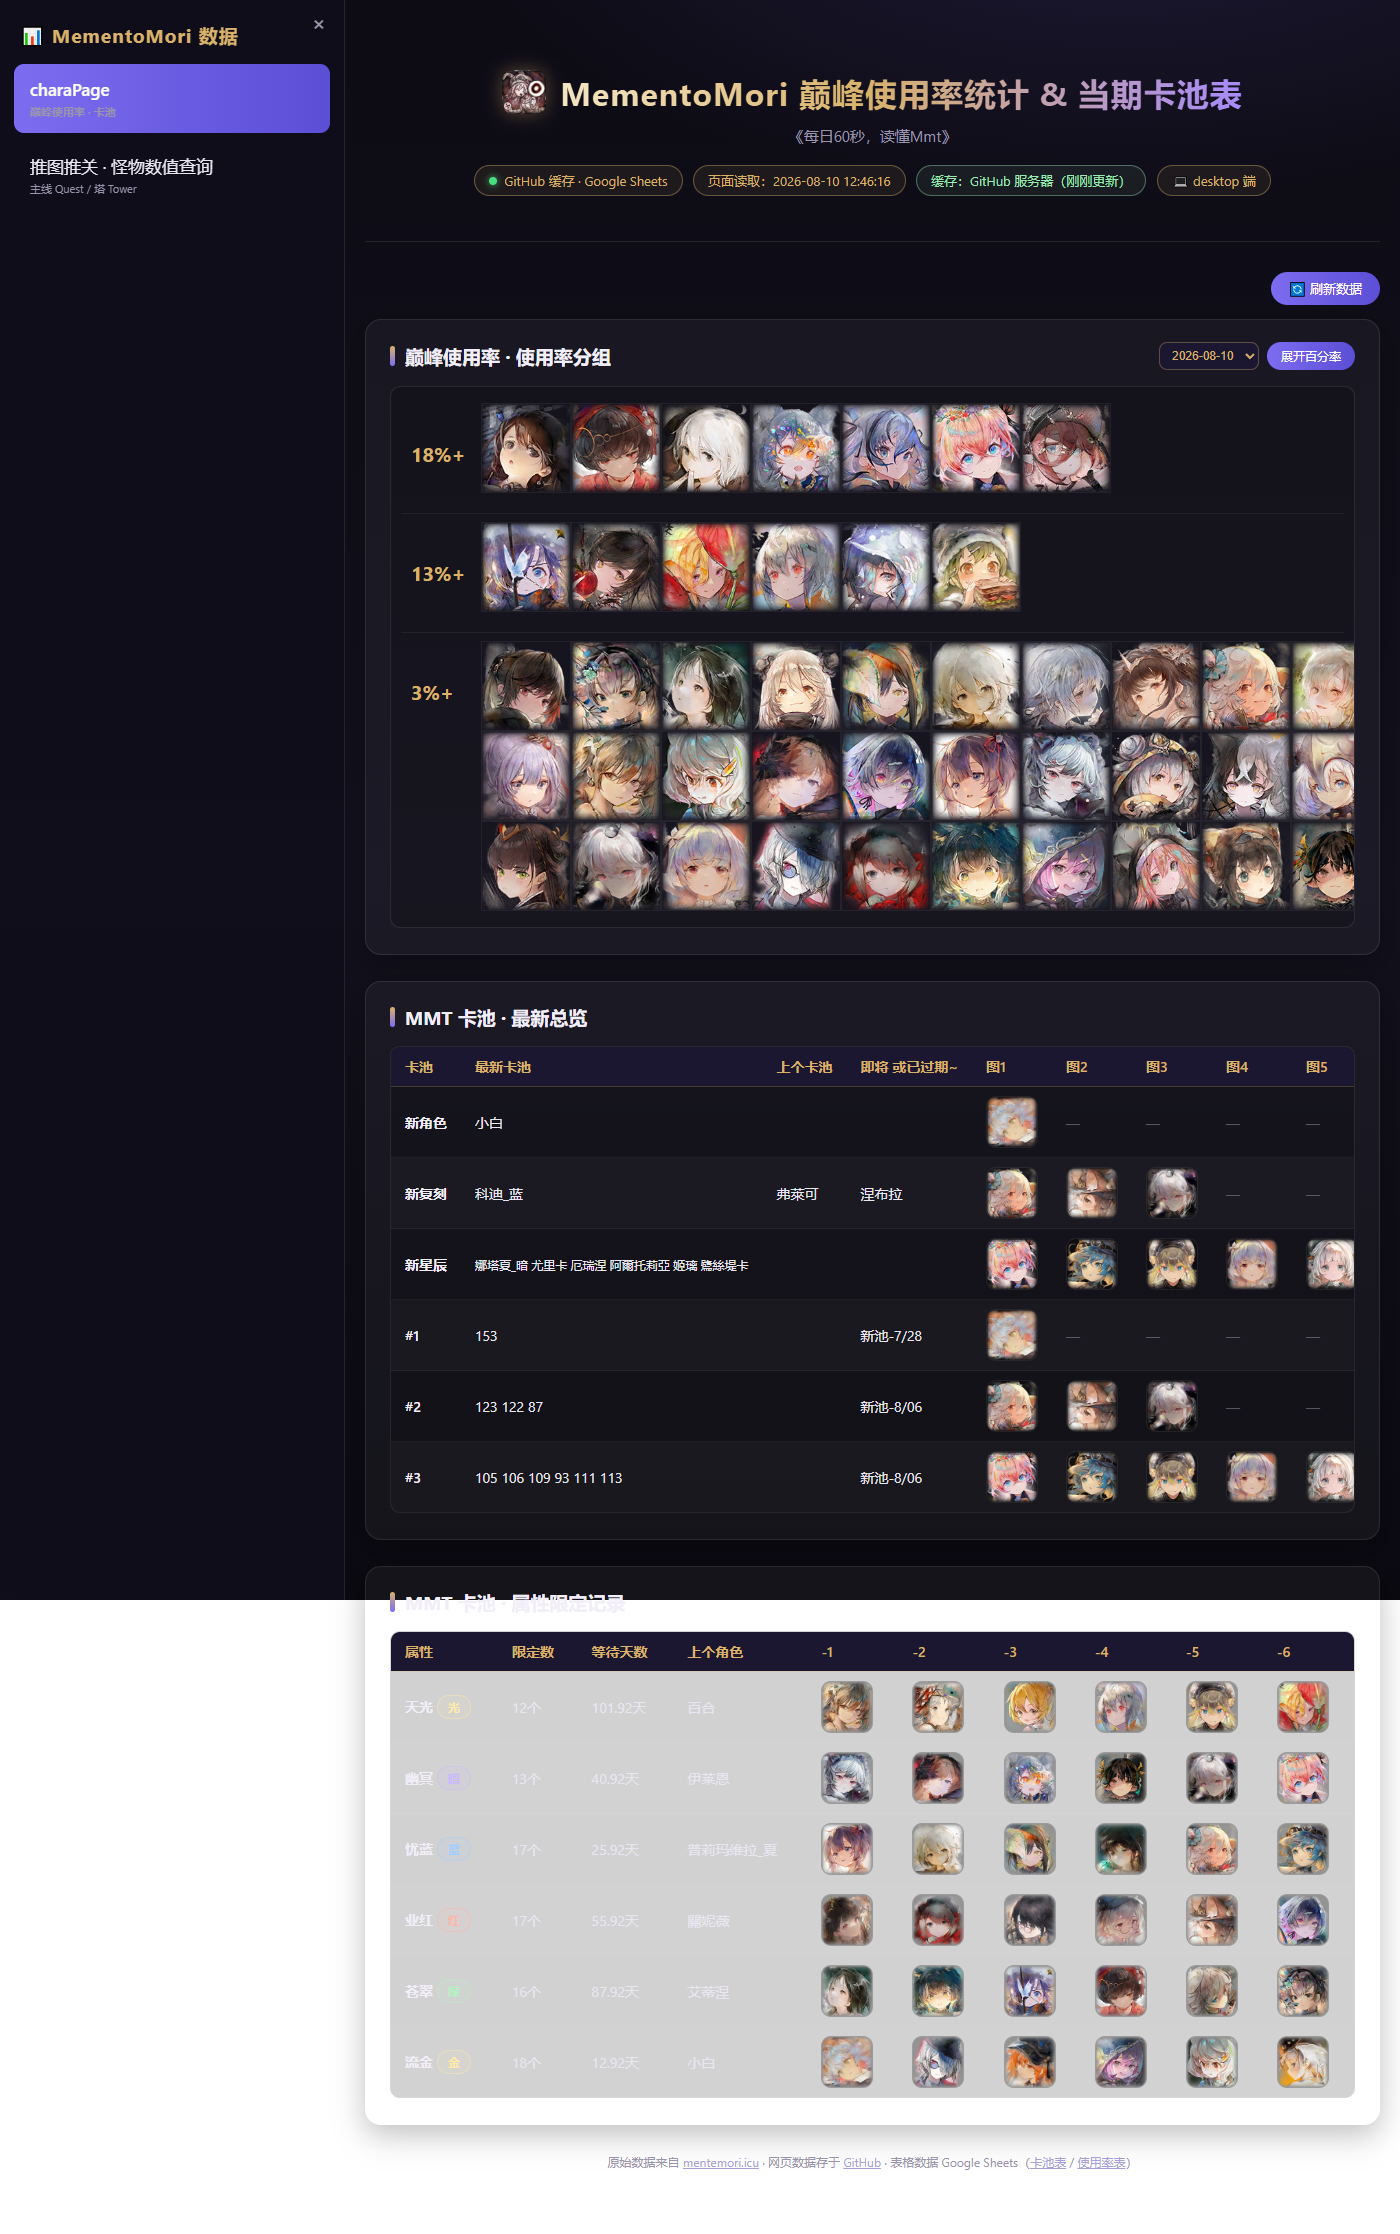
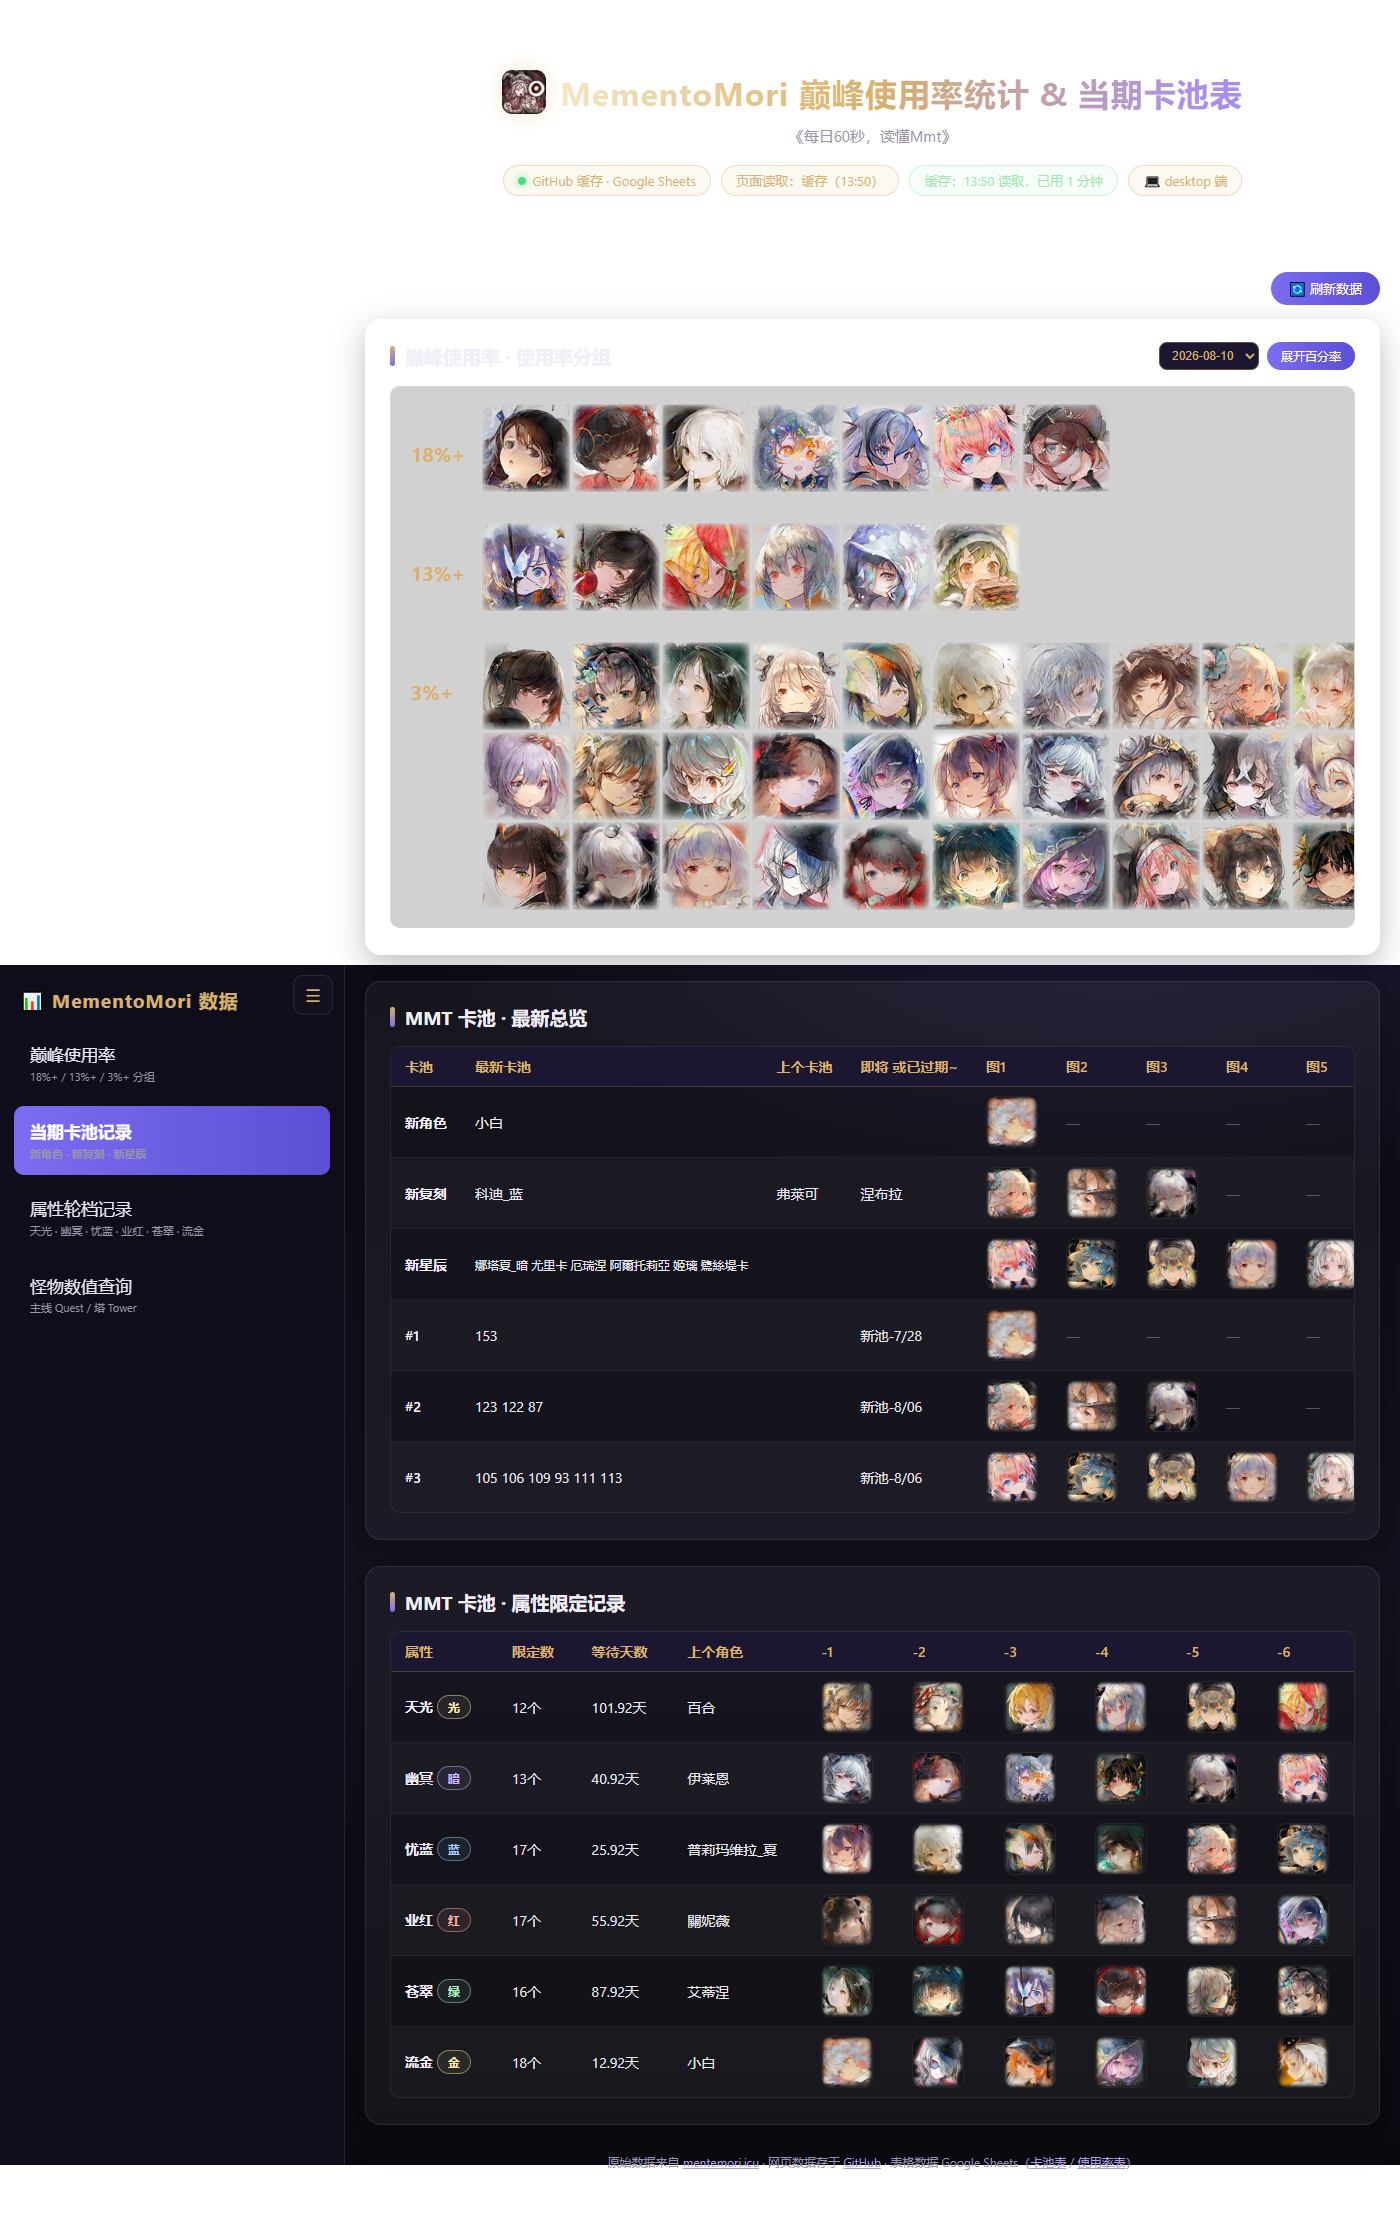
侧栏改为三横杠按钮(收起靠边/展开移到右上角)；菜单改4项：巅峰使用率/当期卡池记录/属性轮档记录(同页锚点跳转)+怪物数值查询

diff --git a/index.html b/index.html
@@ -238,25 +238,27 @@ footer a{color:#a99fd9}
 .side .side-link:hover{background:rgba(124,108,240,.18)}
 .side .side-link.active{background:linear-gradient(90deg,#7c6cf0,#5b4fd6);color:#fff;font-weight:600}
 .side .side-link .sub{display:block;font-size:11px;color:var(--muted);margin-top:2px}
-.side-open{position:fixed;left:10px;top:10px;z-index:90;width:40px;height:40px;border-radius:10px;border:1px solid var(--panel-border);background:rgba(20,17,32,.9);color:var(--gold);font-size:18px;cursor:pointer;display:none}
-.side-close{position:absolute;right:10px;top:10px;width:30px;height:30px;border:none;background:none;color:var(--muted);font-size:22px;cursor:pointer;line-height:1}
+.side-open{position:fixed;left:10px;top:10px;z-index:90;width:40px;height:40px;border-radius:10px;border:1px solid var(--panel-border);background:rgba(20,17,32,.9);color:var(--gold);font-size:18px;cursor:pointer;display:block}
+body:not(.side-collapsed) .side-open{left:calc(345px - 52px)}
 .side-mask{position:fixed;inset:0;background:rgba(0,0,0,.45);z-index:70;display:none}
 .side-mask.show{display:block}
-body.side-collapsed .side-open{display:block}
 @media (min-width:769px){body:not(.side-collapsed){padding-left:345px}}
 @media (max-width:768px){header.top{padding-top:52px}}
 
+html{scroll-behavior:smooth}
+section[id]{scroll-margin-top:16px}
 </style>
 </head>
 <body>
 <div class="side-mask" id="side-mask" onclick="toggleSide(false)"></div>
 <nav class="side" id="side">
-  <button class="side-close" onclick="toggleSide(false)">×</button>
   <div class="side-title">📊 MementoMori 数据</div>
-  <a class="side-link active" href="index.html">charaPage<span class="sub">巅峰使用率 · 卡池</span></a>
-  <a class="side-link" href="monsters.html">推图推关 · 怪物数值查询<span class="sub">主线 Quest / 塔 Tower</span></a>
+  <a class="side-link" href="index.html#sec-usage">巅峰使用率<span class="sub">18%+ / 13%+ / 3%+ 分组</span></a>
+  <a class="side-link" href="index.html#sec-overview">当期卡池记录<span class="sub">新角色 · 新复刻 · 新星辰</span></a>
+  <a class="side-link" href="index.html#sec-elements">属性轮档记录<span class="sub">天光 · 幽冥 · 忧蓝 · 业红 · 苍翠 · 流金</span></a>
+  <a class="side-link" href="monsters.html">怪物数值查询<span class="sub">主线 Quest / 塔 Tower</span></a>
 </nav>
-<button class="side-open" id="side-open" onclick="toggleSide(true)">☰</button>
+<button class="side-open" id="side-open" onclick="toggleSide()">☰</button>
 
 <div class="wrap">
   <header class="top">
@@ -274,7 +276,7 @@ body.side-collapsed .side-open{display:block}
     <button id="btn-refresh" onclick="load(true)">🔄 刷新数据</button>
   </div>
 
-  <section class="card">
+  <section class="card" id="sec-usage">
     <h2>巅峰使用率 · 使用率分组<span class="h2-note">
       <select id="usage-day" onchange="onDayChange()"></select>
       <button type="button" id="btn-pct" class="mini" onclick="togglePct()">展开百分率</button>
@@ -282,12 +284,12 @@ body.side-collapsed .side-open{display:block}
     <div class="table-wrap usage-wrap" id="tbl-usage"></div>
   </section>
 
-  <section class="card">
+  <section class="card" id="sec-overview">
     <h2>MMT 卡池 · 最新总览</h2>
     <div class="table-wrap" id="tbl-overview"></div>
   </section>
 
-  <section class="card">
+  <section class="card" id="sec-elements">
     <h2>MMT 卡池 · 属性限定记录</h2>
     <div class="table-wrap" id="tbl-elements"></div>
   </section>
@@ -619,6 +621,19 @@ function toggleSide(force){
   }
   document.body.classList.toggle("side-collapsed", !open);
 }
+function initScrollSpy(){
+  const targets = ["sec-usage", "sec-overview", "sec-elements"];
+  const links = document.querySelectorAll(".side .side-link");
+  const spy = new IntersectionObserver(entries => {
+    entries.forEach(en => {
+      if (en.isIntersecting){
+        const id = en.target.id;
+        links.forEach(a => a.classList.toggle("active", a.getAttribute("href").indexOf("#" + id) >= 0));
+      }
+    });
+  }, { rootMargin: "-40% 0px -55% 0px" });
+  targets.forEach(id => { const el = document.getElementById(id); if (el) spy.observe(el); });
+}
 function detectDevice(){
   const m = window.matchMedia("(max-width: 768px)");
   const el = document.getElementById("device");
@@ -803,6 +818,7 @@ async function load(force){
 document.getElementById("fetch-time").textContent = "页面读取：" + fmtNow();
 detectDevice();
 toggleSide(window.matchMedia("(min-width: 769px)").matches);
+initScrollSpy();
 load(false);
 scheduleRefresh();
 </script>

diff --git a/monsters.html b/monsters.html
@@ -79,11 +79,10 @@ footer a{color:#a99fd9}
 .side .side-link:hover{background:rgba(124,108,240,.18)}
 .side .side-link.active{background:linear-gradient(90deg,#7c6cf0,#5b4fd6);color:#fff;font-weight:600}
 .side .side-link .sub{display:block;font-size:11px;color:var(--muted);margin-top:2px}
-.side-open{position:fixed;left:10px;top:10px;z-index:90;width:40px;height:40px;border-radius:10px;border:1px solid var(--panel-border);background:rgba(20,17,32,.9);color:var(--gold);font-size:18px;cursor:pointer;display:none}
-.side-close{position:absolute;right:10px;top:10px;width:30px;height:30px;border:none;background:none;color:var(--muted);font-size:22px;cursor:pointer;line-height:1}
+.side-open{position:fixed;left:10px;top:10px;z-index:90;width:40px;height:40px;border-radius:10px;border:1px solid var(--panel-border);background:rgba(20,17,32,.9);color:var(--gold);font-size:18px;cursor:pointer;display:block}
+body:not(.side-collapsed) .side-open{left:calc(345px - 52px)}
 .side-mask{position:fixed;inset:0;background:rgba(0,0,0,.45);z-index:70;display:none}
 .side-mask.show{display:block}
-body.side-collapsed .side-open{display:block}
 @media (min-width:769px){
   body:not(.side-collapsed){padding-left:345px}
 }
@@ -97,17 +96,20 @@ body.side-collapsed .side-open{display:block}
   thead th,tbody td{padding:7px 8px;font-size:12px}
   .qrow input[type=text]{width:120px}
 }
+html{scroll-behavior:smooth}
+section[id]{scroll-margin-top:16px}
 </style>
 </head>
 <body>
 <div class="side-mask" id="side-mask" onclick="toggleSide(false)"></div>
 <nav class="side" id="side">
-  <button class="side-close" onclick="toggleSide(false)">×</button>
   <div class="side-title">📊 MementoMori 数据</div>
-  <a class="side-link" href="index.html">charaPage<span class="sub">巅峰使用率 · 卡池</span></a>
-  <a class="side-link active" href="monsters.html">推图推关 · 怪物数值查询<span class="sub">主线 Quest / 塔 Tower</span></a>
+  <a class="side-link" href="index.html#sec-usage">巅峰使用率<span class="sub">18%+ / 13%+ / 3%+ 分组</span></a>
+  <a class="side-link" href="index.html#sec-overview">当期卡池记录<span class="sub">新角色 · 新复刻 · 新星辰</span></a>
+  <a class="side-link" href="index.html#sec-elements">属性轮档记录<span class="sub">天光 · 幽冥 · 忧蓝 · 业红 · 苍翠 · 流金</span></a>
+  <a class="side-link active" href="monsters.html">怪物数值查询<span class="sub">主线 Quest / 塔 Tower</span></a>
 </nav>
-<button class="side-open" id="side-open" onclick="toggleSide(true)">☰</button>
+<button class="side-open" id="side-open" onclick="toggleSide()">☰</button>
 
 <div class="wrap">
   <header class="top">
